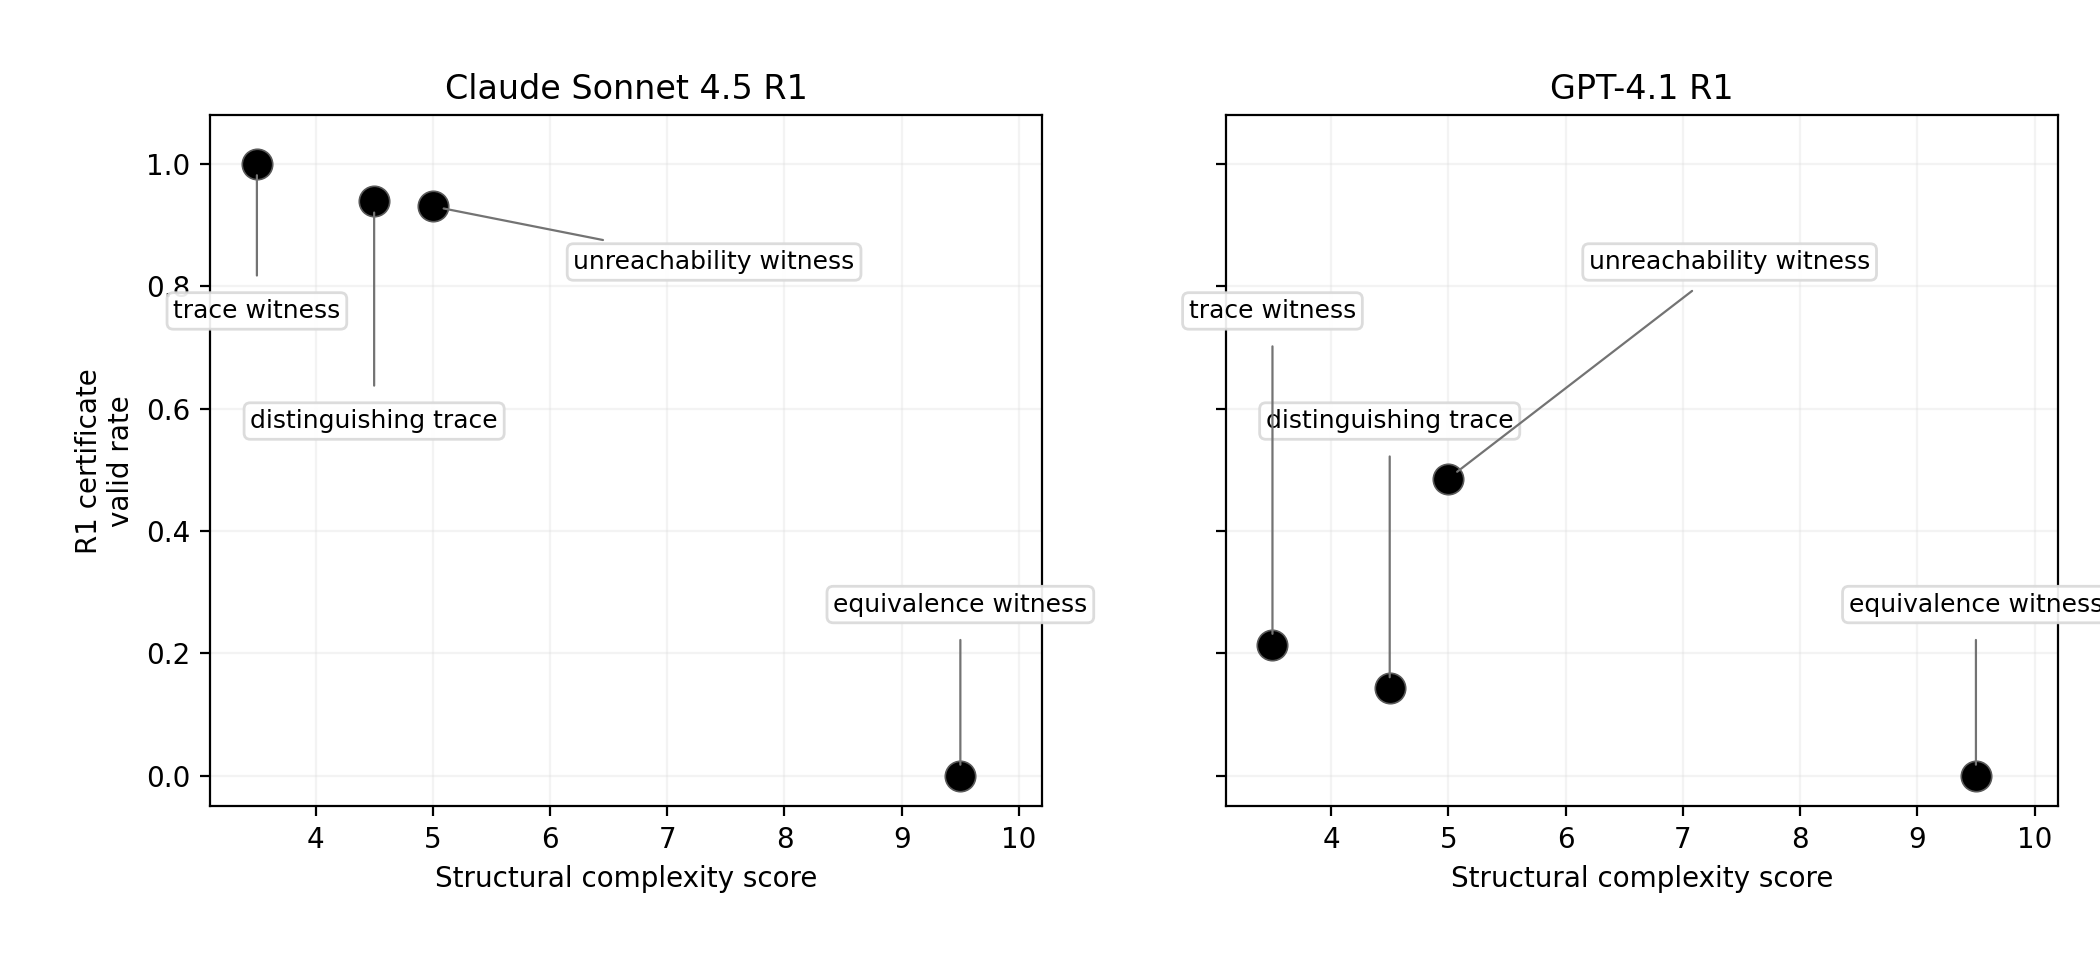
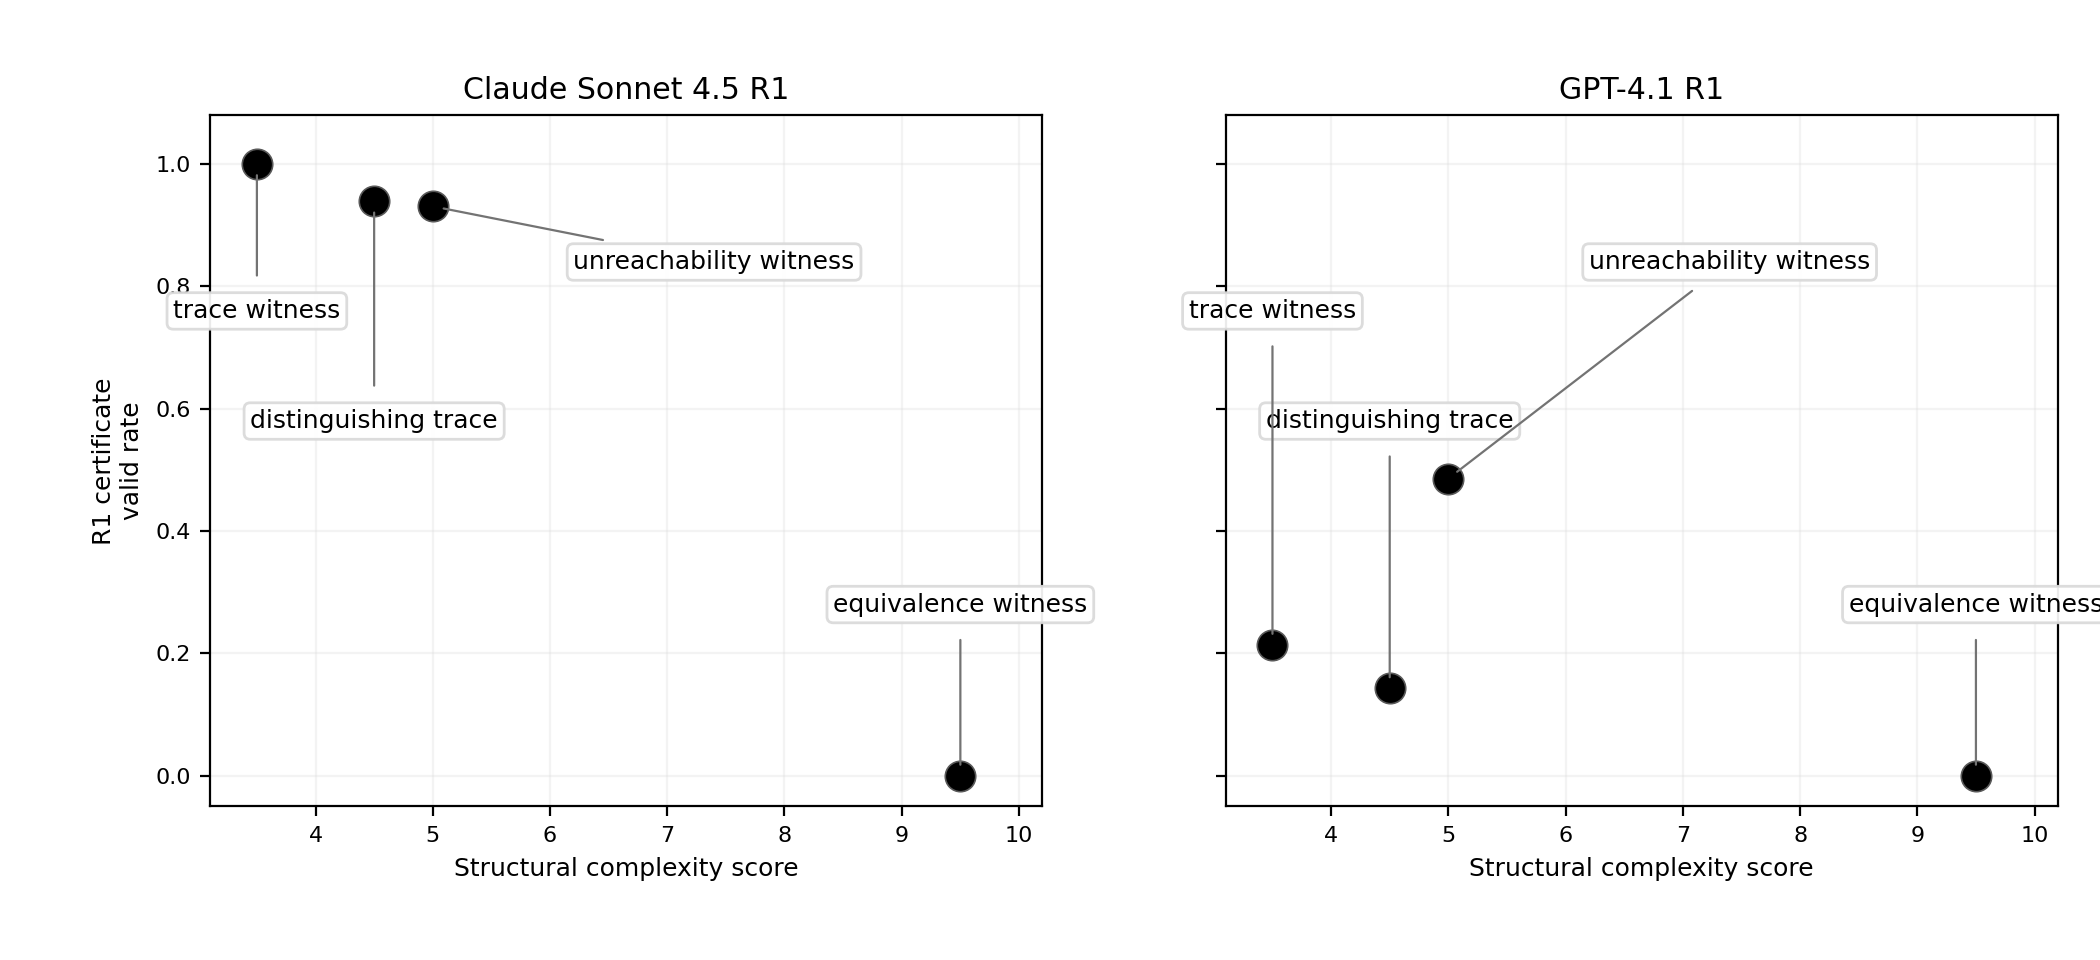
docs: add TOSEM artifact release report and reproduction guide
Document frozen campaigns, paper alignment, reproducibility tiers, runtime
assumptions, and Zenodo checklist for the TOSEM submission artifact.

diff --git a/docs/ARTIFACT_RELEASE_REPORT.md b/docs/ARTIFACT_RELEASE_REPORT.md
@@ -1,0 +1,189 @@
+# TOSEM Artifact Release Report
+
+**Release tag:** `tosem-artifact-v1.0`  
+**Release date:** 2026-06-25 (UTC)  
+**Repository:** `fsmreasonbench` (artifact root)  
+**Manuscript:** ACM TOSEM companion in [`../paper/`](../paper/) — feature complete, experiments frozen  
+**Authoritative freeze:** [`../paper/EXPERIMENTAL_FREEZE_TOSEM.md`](../paper/EXPERIMENTAL_FREEZE_TOSEM.md)
+
+---
+
+## 1. Repository status
+
+| Check | Result |
+|-------|--------|
+| Git branch | `main` |
+| Remote | `origin` → `[email redacted]-ucjc:cesar-andress/fsmreasonbench.git` |
+| Python package | `fsmreasonbench 0.2.0-dev` |
+| Cohort snapshots | `v0.1-expanded-n100` (C2 + F1 mixed, n=100, T=0.2) — validated |
+| Frozen run trees | Present under `runs/` (gitignored; ship via Zenodo tarball) |
+| Zenodo DOI (prior release) | [10.5281/zenodo.20836348](https://doi.org/10.5281/zenodo.20836348) |
+| `./scripts/reproduce_tosem_tables.sh` | **PASS** (read-only; no API calls) |
+| `artifact_health` | **PASS** |
+| Full pytest suite | **569 passed** (~9.5 min, Python 3.12) |
+| Publication readiness CLI | **PASS** (no open issues) |
+
+**Policy:** No scientific changes during this release pass — only documentation, manifests, reproducibility paths, and cleanup.
+
+---
+
+## 2. Experiment inventory
+
+All campaigns referenced by the TOSEM manuscript export path are present with complete `combined_summary.json` (or cell `summary.json`) rollups.
+
+| Campaign | Run root | Status |
+|----------|----------|--------|
+| Claude Sonnet 4.5 frontier tools (C2/F1 R1/R2) | `runs/frontier_claude_sonnet_tools_n100_v2/` | **complete** (4/4 cells) |
+| GPT-4.1 frontier tools (C2/F1 R1/R2) | `runs/frontier_gpt_tools_n100_v1/` | **complete** (4/4 cells) |
+| Local Ollama matrix (4 models × C2/F1 × R0/R1/R2) | `runs/local_matrix_n100_t02_v2/` | **complete** (24/24 cells) |
+| Claude F1 attribution ablations (Oracle, R2A/R2B/R2C) | `runs/ablations_f1_r2_attribution_claude_n100_v1/` + Oracle control | **complete** |
+| Claude C2 existential/universal ablations | `runs/ablations_c2_existential_universal_claude_n100_v1/` | **complete** (5/5) |
+| GPT F1 R2C attribution ablation | `runs/ablations_f1_r2c_gpt_n100_v1/` | **complete** (1/1) |
+| Constructible equivalence (A1) — Claude | `runs/f1_constructible_equivalence_claude_n100_v1/` | **complete** |
+| Constructible equivalence (A1) — GPT | `runs/f1_constructible_equivalence_gpt_n100_v1/` | **complete** |
+
+**Statistical exports (frozen JSON):**
+
+| Analysis | Path |
+|----------|------|
+| Bootstrap / McNemar | `docs/tmlr_empirical_package_v1/uncertainty/bootstrap_mcnemar_summary.json` |
+| Certificate complexity | `docs/certificate_class_complexity_analysis.json` |
+| Constructible equivalence (A1) | `docs/a1_constructible_equivalence_v1/constructible_equivalence_analysis.json` |
+| GPT frontier summary | `docs/frontier_gpt_tools_n100_v1_summary.json` |
+| Local matrix bootstrap | `docs/local_matrix_n100_t02_bootstrap_summary.json` |
+
+**Excluded (audit only — not cited):** `runs/frontier_claude_sonnet_full_n100_v1/`, `runs/frontier_gemini_*`, superseded n=20 pilots.
+
+**Post-freeze extension campaigns (not run — do not cite):** `*_replicates/`, full GPT attribution ladder, Gemini/DeepSeek pilots. See [`docs/TOSEM_EXPERIMENT_EXTENSION_PLAN.md`](TOSEM_EXPERIMENT_EXTENSION_PLAN.md).
+
+---
+
+## 3. Paper alignment
+
+Manuscript inputs are under `../paper/` (sibling of artifact root). Export CLIs write LaTeX tables and main-text figures there during `./scripts/reproduce_tosem_tables.sh`.
+
+### Main-text tables (22 `\input{tables/...}` in manuscript `.tex`)
+
+| Table | LaTeX | Export / source |
+|-------|-------|-----------------|
+| Scoring dimensions | `scoring_dimensions.tex` | Hand-maintained protocol table |
+| Benchmark families | `benchmark_families.tex` | Hand-maintained |
+| Local matrix design | `design_local_matrix_cells.tex` | Hand-maintained |
+| Frontier comparison | `frontier_tools_comparison_n100.tex` | `export_tosem_empirical_package` |
+| Knowing vs showing gap | `knowing_showing_gap_n100.tex` | `export_tosem_empirical_package` |
+| F1 Claude ablations | `f1_claude_ablations.tex` | `export_tmlr_empirical_package` |
+| F1 GPT ablations | `f1_gpt_ablations.tex` | `export_tosem_empirical_package` |
+| A1 witness table | `extension_constructible_equivalence_witness.tex` | `export_constructible_equivalence_analysis` |
+| A1 statistics | `extension_constructible_equivalence_statistics.tex` | `export_constructible_equivalence_analysis` |
+| Local matrix summary | `local_matrix_n100_summary.tex` | `export_tosem_empirical_package` |
+| Failure stage | `failure_stage_n100.tex` | `export_tosem_empirical_package` |
+| Certificate complexity | `certificate_complexity.tex` | `export_tmlr_empirical_package` |
+| Resource access | `resource_access_conditions.tex` | Hand-maintained appendix |
+| Confound by subtype | `confound_by_subtype.tex` | `export_tmlr_empirical_package` |
+| Bootstrap subtypes | `results_bootstrap_subtypes.tex` | `export_tmlr_empirical_package` |
+| Paired McNemar | `results_paired_mcnemar.tex` | `export_tosem_empirical_package` |
+| Extended McNemar | `appendix_mcnemar_extended.tex` | `export_tmlr_empirical_package` |
+| Failure taxonomy | `appendix_failure_taxonomy.tex` | Frozen export / prior campaign reports |
+| Oracle ceiling | `oracle_ceiling_summary.tex` | Hand-maintained appendix |
+| C2 Claude ablations | `c2_claude_ablations.tex` | `export_tmlr_empirical_package` |
+| Verifier audit | `appendix_verifier_audit_full.tex` | Frozen verifier audit export |
+| Hash decomposition | `appendix_hash_decomposition.tex` | Frozen hash decomposition export |
+
+**Alignment:** All 22 manuscript `\input{tables/...}` files exist under `../paper/tables/` (27 `.tex` files total; five are extension-only and not cited in the frozen TOSEM main text).
+
+### Main-text figures (4 `\includegraphics{figures/...}`)
+
+| Figure | PDF | Generator |
+|--------|-----|-----------|
+| Verdict–witness gap | `figure_verdict_witness_gap_comparison.pdf` | `export_tosem_empirical_package` |
+| Certificate complexity (frontier) | `figure_certificate_complexity_frontier_comparison.pdf` | `export_tmlr_empirical_package` |
+| Attribution fingerprint | `figure_attribution_fingerprint_comparison.pdf` | `export_tosem_empirical_package` |
+| Constructible equivalence (A1) | `extension_constructible_equivalence_comparison.pdf` | `export_constructible_equivalence_analysis` |
+
+**Cleanup:** Legacy `figure1_complexity_vs_success.*` removed from `../paper/figures/` (superseded by `figure_certificate_complexity_frontier_comparison.pdf`; retained under `docs/tmlr_empirical_package_v1/figures/` for historical reproduction).
+
+### Package manifest
+
+`docs/tosem_empirical_package_v1/package_manifest.json` records portable relative paths (`../paper/tables/...`, `../paper/figures/...`) for all TOSEM export artifacts.
+
+---
+
+## 4. Reproducibility status
+
+| Tier | Command | Result |
+|------|---------|--------|
+| 0 | `artifact_health` + export unit tests | **PASS** |
+| 1 | `validate_cohort` on frozen snapshots | **PASS** (via CI / manual) |
+| 2 | `./scripts/reproduce_tosem_tables.sh` | **PASS** — regenerates tables, figures, manifests from frozen runs |
+| 3 | Full pytest (`569` tests) | **PASS** |
+
+**Determinism:** Export CLIs read frozen JSON/JSONL only; matplotlib figures are regenerated from the same source summaries. Item generation seeds are fixed in cohort manifests.
+
+**Runtime (Tier 2):** 2–5 minutes on a typical Linux workstation; **$0 API cost**.
+
+**Hardware:** Any machine with Python ≥ 3.11; no GPU required for reproduction.
+
+---
+
+## 5. Documentation status
+
+| Document | Purpose | Status |
+|----------|---------|--------|
+| [`README.md`](../README.md) | Installation, quick start, TOSEM reproduction | **Updated** (TOSEM primary) |
+| [`README-RELEASE.md`](../README-RELEASE.md) | Zenodo tarball quickstart | **Current** |
+| [`docs/tosem/REPRODUCTION.md`](tosem/REPRODUCTION.md) | Full offline workflow, runtime/cost/seeds | **Updated** |
+| [`docs/EXPERIMENTAL_FREEZE_TOSEM.md`](EXPERIMENTAL_FREEZE_TOSEM.md) | Artifact mirror of manuscript freeze | **Current** |
+| [`docs/tosem_empirical_package_v1/README.md`](tosem_empirical_package_v1/README.md) | TOSEM export manifest | **Current** |
+| [`docs/zenodo/REPRODUCIBILITY.md`](zenodo/REPRODUCIBILITY.md) | Zenodo archival policy | **Current** |
+| [`docs/historical/README.md`](historical/README.md) | Legacy TMLR / exploratory docs | **Archived** |
+
+Historical TMLR package paths (`docs/tmlr_empirical_package_v1/`) remain for Claude ablation and bootstrap exports; they are **not** the primary venue narrative.
+
+---
+
+## 6. Remaining known limitations
+
+1. **Partial GPT attribution ladder** — only F1 R2C frozen; no GPT Oracle/R2A/R2B.
+2. **Open-weight models** — local matrix R0/R1/R2 only; no attribution ablations.
+3. **Gemini / DeepSeek excluded** — quota-contaminated or not in scope.
+4. **Single temperature** — T=0.2 only in frozen cells.
+5. **Post-freeze extensions not run** — replicates and full GPT ladder documented but absent.
+6. **Run trees gitignored** — `runs/` must ship in the Zenodo tarball alongside this repository snapshot.
+
+These match the limitations section in [`../paper/EXPERIMENTAL_FREEZE_TOSEM.md`](../paper/EXPERIMENTAL_FREEZE_TOSEM.md).
+
+---
+
+## 7. Git commit hashes (release series)
+
+Commits on `main` forming this release (newest first):
+
+| Commit | Summary |
+|--------|---------|
+| *(this release)* | TOSEM artifact freeze: manifest paths, docs, exports, release report |
+| `d709107` | evaluator: export paired verdict-witness gap figures for TOSEM |
+| `4478ca2` | figures: add frontier certificate complexity comparison |
+| `9fc5746` | Add A1 statistical export with bootstrap, McNemar, and artifact docs |
+| `93e6732` | docs: document construct-validity experiment |
+| `33c60b8` | analysis: export constructible equivalence witness comparisons |
+
+**Release tag:** `tosem-artifact-v1.0` (annotated) — frozen TOSEM experiments, manuscript v1.0 artifact bundle, read-only reproduction verified.
+
+---
+
+## 8. Zenodo contents checklist
+
+Include in the archival tarball:
+
+- [ ] Full git snapshot at tag `tosem-artifact-v1.0`
+- [ ] Frozen `runs/` trees listed in §2
+- [ ] `cohorts/v0.1-expanded-n100/`
+- [ ] `docs/tosem_empirical_package_v1/` + `docs/tmlr_empirical_package_v1/`
+- [ ] `docs/a1_constructible_equivalence_v1/`
+- [ ] Companion `paper/` directory (`tables/`, `figures/`, manuscript sources)
+- [ ] `SHA256SUMS` / checksum manifest
+- [ ] This report: `docs/ARTIFACT_RELEASE_REPORT.md`
+
+---
+
+*Generated as part of the ACM TOSEM artifact freeze pass. Re-run `./scripts/reproduce_tosem_tables.sh` and `artifact_health` after any tarball assembly to confirm bit-exact table regeneration.*

diff --git a/docs/tosem/REPRODUCTION.md b/docs/tosem/REPRODUCTION.md
@@ -68,7 +68,7 @@ Still required for:
 
 - `paper/tables/f1_claude_ablations.tex`
 - `paper/tables/c2_claude_ablations.tex`
-- `paper/figures/figure1_complexity_vs_success.pdf`
+- `paper/figures/figure_certificate_complexity_frontier_comparison.pdf`
 - Bootstrap/McNemar appendix material under `docs/tmlr_empirical_package_v1/`
 
 Reads frozen runs:
@@ -140,10 +140,25 @@ before citing results.
 | GPT summaries | `docs/frontier_gpt_tools_n100_v1_summary.json`, `docs/frontier_gpt_tools_n100_v1_uncertainty.json` |
 | Local matrix bootstrap | `docs/local_matrix_n100_t02_bootstrap_summary.json` |
 | Manuscript tables | `../paper/tables/*_n100*.tex`, `results_paired_mcnemar.tex`, ablation tables |
-| Complexity figure | `../paper/figures/figure1_complexity_vs_success.pdf` |
+| Main-text figures | `../paper/figures/figure_verdict_witness_gap_comparison.pdf`, `figure_certificate_complexity_frontier_comparison.pdf`, `figure_attribution_fingerprint_comparison.pdf`, `extension_constructible_equivalence_comparison.pdf` |
 
 Numerical values must match the frozen `combined_summary.json` sources. If they diverge, check
 that run trees are complete and that export CLIs were run with `PYTHONPATH=src`.
+
+---
+
+## Runtime, hardware, and cost assumptions
+
+| Task | Expected runtime | Hardware | API cost |
+|------|------------------|----------|----------|
+| Tier 0 sanity (`artifact_health` + export unit tests) | < 1 min | Any Linux/macOS with Python ≥ 3.11 | $0 |
+| Tier 1 cohort validation | < 30 s | Same | $0 |
+| Tier 2 `./scripts/reproduce_tosem_tables.sh` | 2–5 min | Same; matplotlib for figures | $0 |
+| Tier 4 extension / re-inference campaigns | hours–days | GPU optional for Ollama; API keys for frontier | **Not frozen** — see extension plan |
+
+**Random seeds:** item generation uses fixed seeds in cohort manifests (`cohorts/v0.1-expanded-n100/*/manifest.json`). Inference cells use temperature `T=0.2` and one pass per item (`temp_0.2` directories).
+
+**Version pins:** `releases/1.0.0/release_manifest.json`, `CITATION.cff`, Zenodo DOI `10.5281/zenodo.20836348`.
 
 ---
 

diff --git a/docs/EXPERIMENTAL_FREEZE_TOSEM.md b/docs/EXPERIMENTAL_FREEZE_TOSEM.md
@@ -19,9 +19,17 @@ find the freeze without leaving the repository.
 | Claude C2 ablations | `runs/ablations_c2_existential_universal_claude_n100_v1/` | 5 |
 | GPT-4.1 tools | `runs/frontier_gpt_tools_n100_v1/` | 4 |
 | GPT F1 R2C | `runs/ablations_f1_r2c_gpt_n100_v1/` | 1 |
-| Local Ollama matrix | `runs/local_matrix_n100_t02_v2/` | 24 |
+| Constructible eq. witness (A1) — Claude | `runs/f1_constructible_equivalence_claude_n100_v1/` | **complete** |
+| Constructible eq. witness (A1) — GPT | `runs/f1_constructible_equivalence_gpt_n100_v1/` | **complete** |
 
 **Regenerate tables (read-only):** `./scripts/reproduce_tosem_tables.sh`
+
+**Main-text figures (written to `../paper/figures/`):**
+
+- `figure_verdict_witness_gap_comparison.pdf`
+- `figure_certificate_complexity_frontier_comparison.pdf`
+- `figure_attribution_fingerprint_comparison.pdf`
+- `extension_constructible_equivalence_comparison.pdf`
 
 **Excluded (audit only):** `runs/frontier_claude_sonnet_full_n100_v1/`, `runs/frontier_gemini_*`,
 superseded n=20 pilots — full table in the authoritative freeze doc.